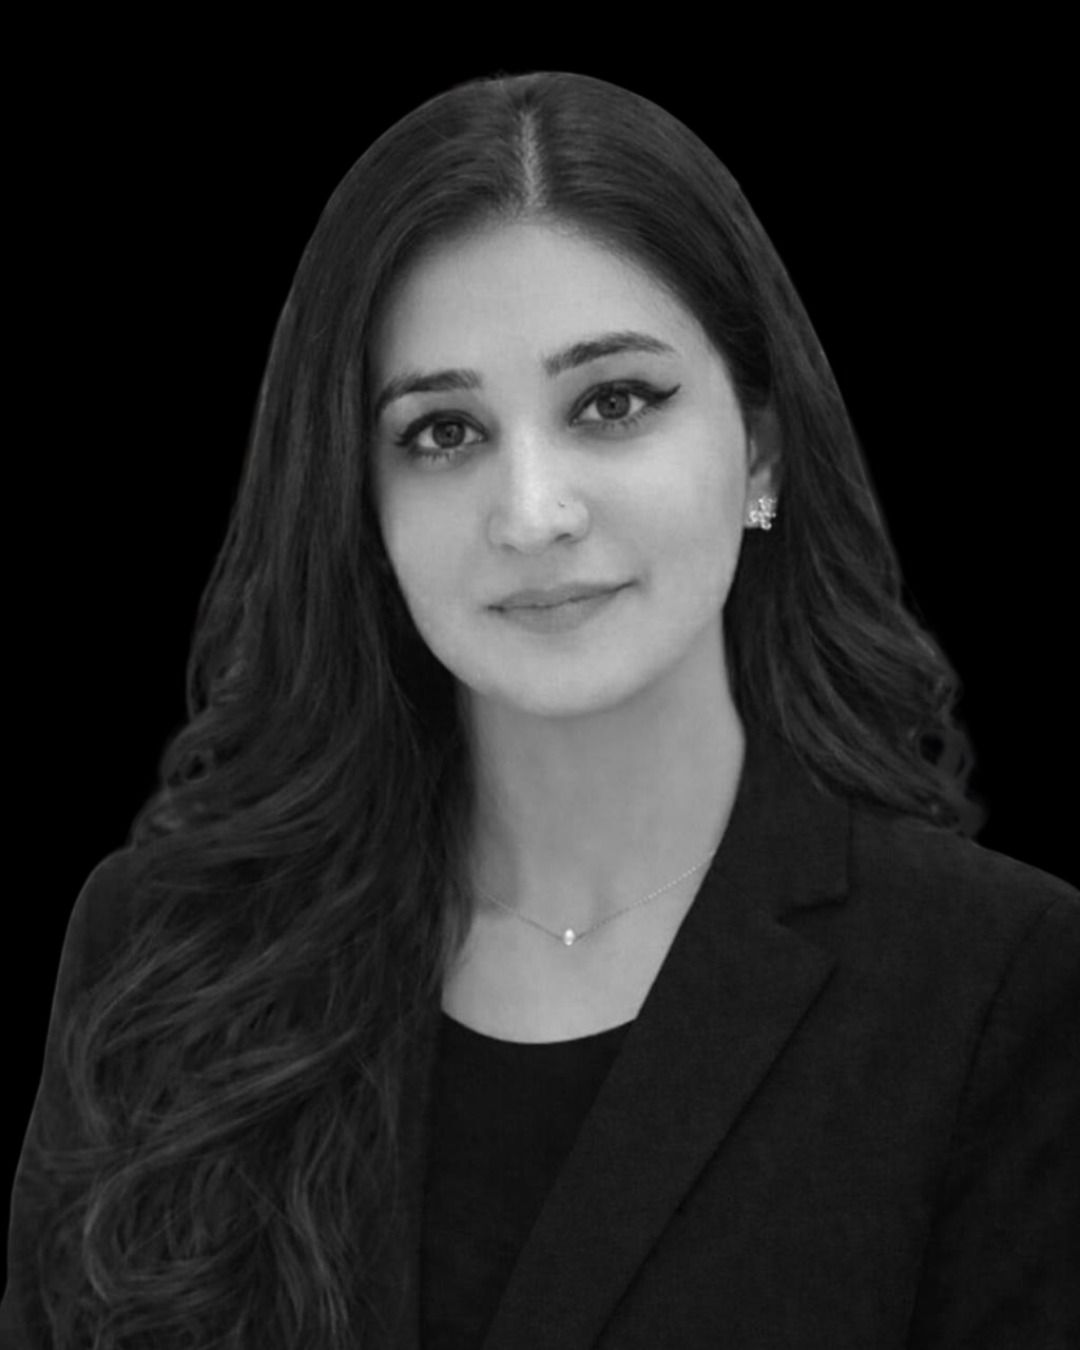
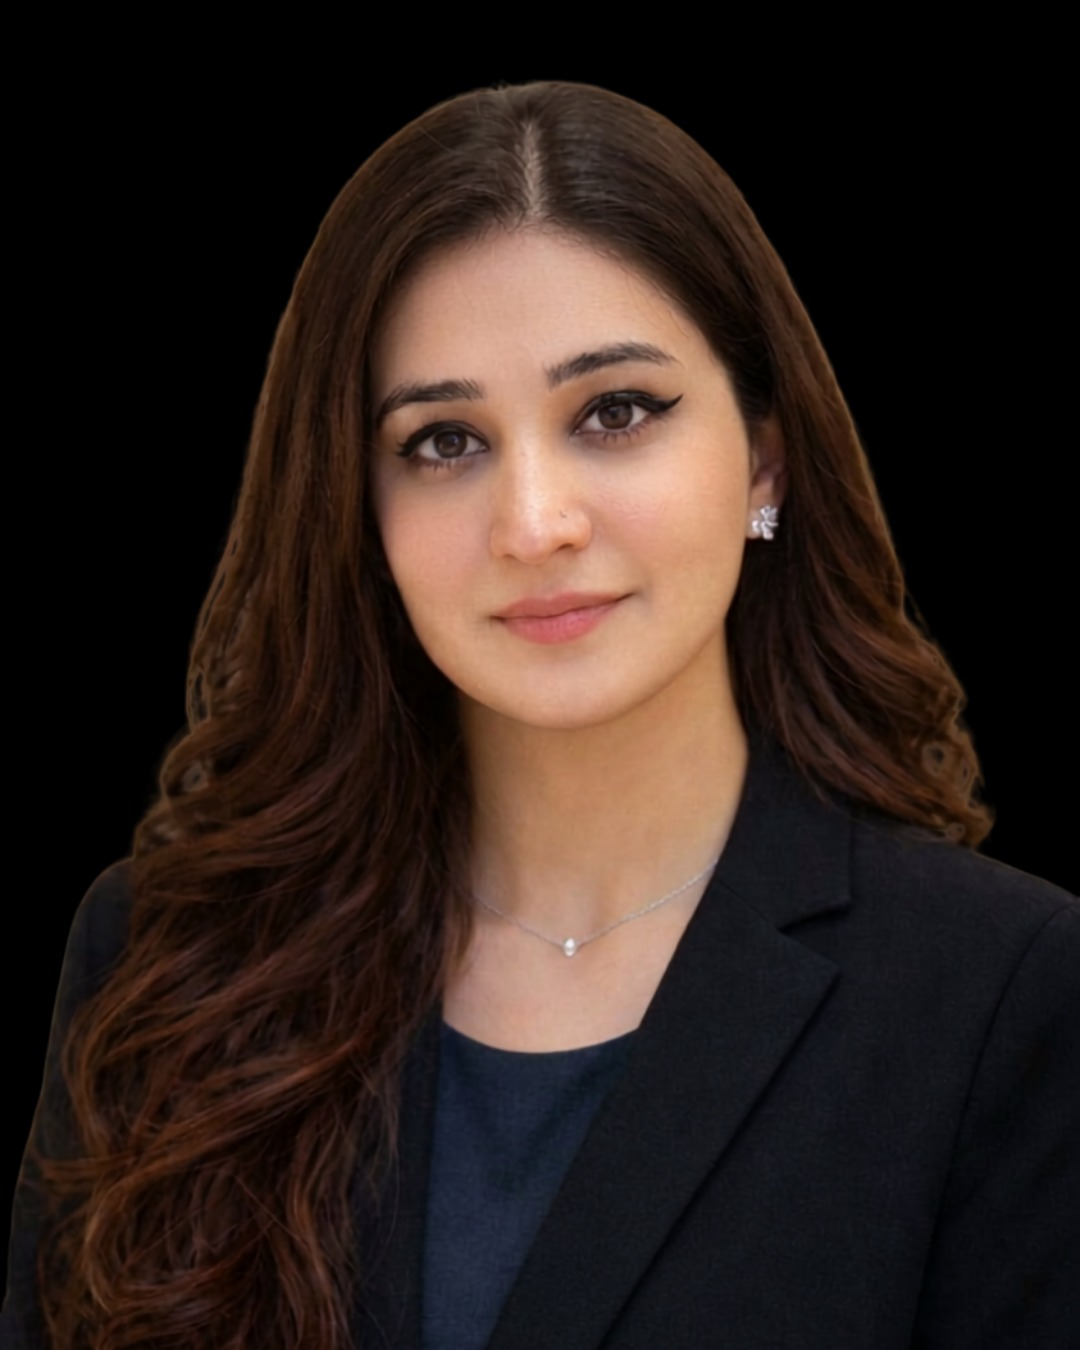
Refactor code structure for improved readability and maintainability

Changed region(s): [[0.0, 0.0311, 0.9778, 1.0], [0.9778, 0.6533, 1.0, 0.6844], [0.0611, 0.6533, 0.0917, 0.6844]]

diff --git a/app/(site)/about/page.tsx b/app/(site)/about/page.tsx
@@ -17,8 +17,8 @@ const stats = [
    as they arrive; until a photo is set, the card shows the member's initials. */
 const team: { name: string; role: string; img?: string }[] = [
   { name: 'Zeeshan Malik', role: 'CEO', img: '/about/team/zeeshan-naqvi.jpg' },
-  { name: 'Natasha Hall', role: 'Sales Manager' },
-  { name: 'Sharoon Irfan Khan', role: 'Marketing Head', img: '/about/team/sharoon-irfan-khan.jpg?v=2' },
+  { name: 'Natasha Hall', role: 'Sales Manager', img: '/about/team/natasha-hall.jpg' },
+  { name: 'Sharoon Irfan Khan', role: 'Marketing Head', img: '/about/team/sharoon-irfan-khan.jpg?v=3' },
   { name: 'Naveed Anjum', role: 'Content Manager', img: '/about/team/naveed-anjum.jpg' },
   { name: 'Safia Sehar', role: 'Social Media Manager', img: '/about/team/safia-sehar.jpg?v=2' },
   { name: 'Hamad Zaheer', role: 'Sales Executive', img: '/about/team/hamad-zaheer.jpg' },
